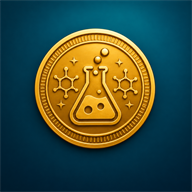
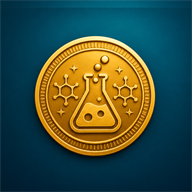
Centraliza a moeda no ícone do MolBank

Changed region(s): [[0.1562, 0.125, 0.8125, 0.8438]]

diff --git a/service-worker.js b/service-worker.js
@@ -1,4 +1,4 @@
-const CACHE_NAME = 'molbank-shell-v4';
+const CACHE_NAME = 'molbank-shell-v5';
 const APP_SHELL = [
   './',
   './index.html',
